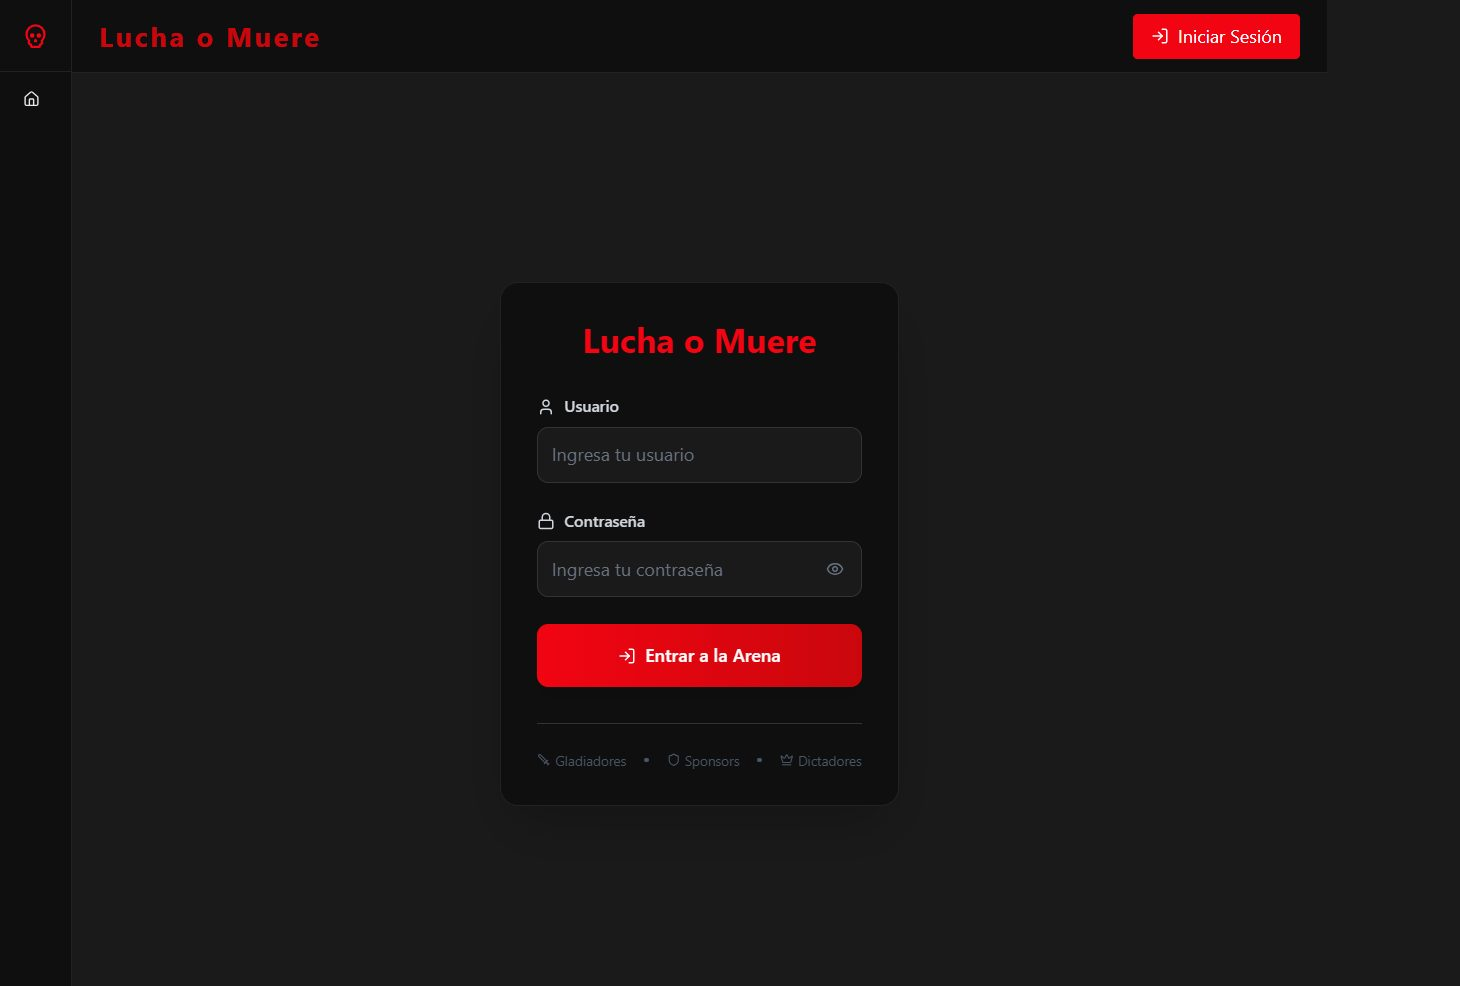
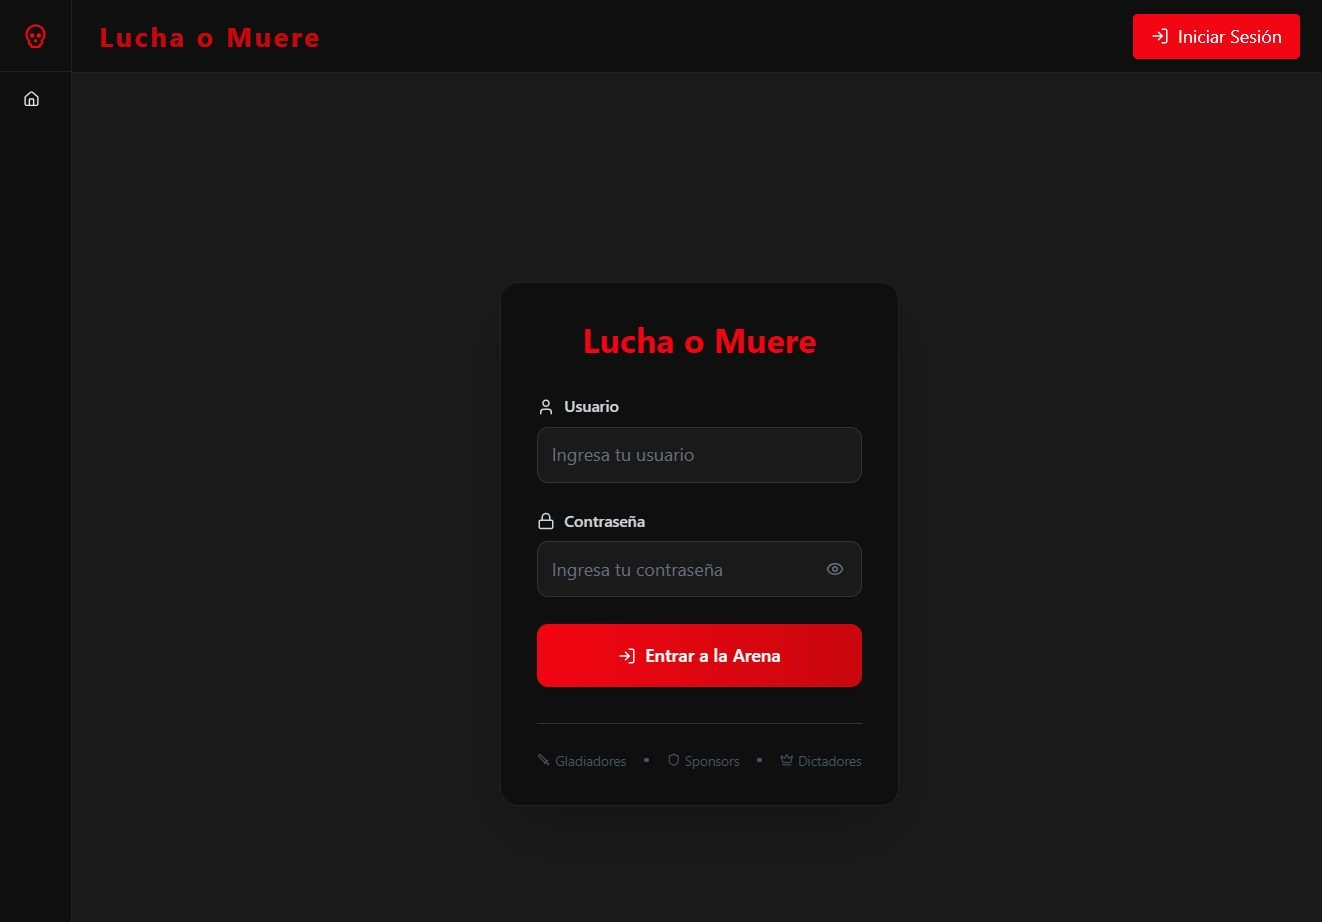
Conteo de proyectos dinamico en boot y cinta de estado (placeholder {n})

diff --git a/src/i18n/diccionario.ts b/src/i18n/diccionario.ts
@@ -14,7 +14,7 @@ export const diccionario = {
     boot1: "MARIANA ESGUERRA BIOS v1.0 — (C) 2026",
     boot2: "CPU: INGENIERIA DE SISTEMAS @ 5TO SEMESTRE ......... OK",
     boot3: "MONTANDO C:\\PORTAFOLIO ................................ OK",
-    boot4: "CARGANDO PROYECTOS [12] ............................... OK",
+    boot4: "CARGANDO PROYECTOS [{n}] ............................... OK",
     boot5: "IDIOMA: ES/EN · TEMA: DARK/LIGHT ...................... OK",
     bootMem: "MEMORIA: 640K CONVENCIONAL ......................... OK",
     bootSpotify: "CARGANDO DRIVER DE SPOTIFY .......................... OK",
@@ -38,7 +38,7 @@ export const diccionario = {
     iconAcerca: "ACERCA_DE",
     iconContacto: "CONTACTO",
     iconMusica: "MUSICA",
-    cintaTexto: "BIENVENIDA A NAVYRI.OS · PORTAFOLIO PERSONAL DE MARIANA ESGUERRA · 12 ARCHIVOS CARGADOS · MODO OSCURO ACTIVO · ",
+    cintaTexto: "BIENVENIDA A NAVYRI.OS · PORTAFOLIO PERSONAL DE MARIANA ESGUERRA · {n} ARCHIVOS CARGADOS · MODO OSCURO ACTIVO · ",
     discoTitulo: "DISCO C:",
     discoArchivos: "archivos indexados",
     verProyectos: "Ver proyectos",
@@ -118,7 +118,7 @@ export const diccionario = {
     bootMem: "MEMORY: 640K CONVENTIONAL ....................... OK",
     boot3: "MOUNTING C:\\PORTFOLIO ................................ OK",
     bootSpotify: "LOADING SPOTIFY DRIVER ........................... OK",
-    boot4: "LOADING PROJECTS [12] ............................... OK",
+    boot4: "LOADING PROJECTS [{n}] ............................... OK",
     boot5: "LANGUAGE: ES/EN · THEME: DARK/LIGHT .................. OK",
     bootStart: "STARTING NAVYRI.OS ... WELCOME.",
     bootOmitir: "PRESS ANY KEY TO SKIP",
@@ -140,7 +140,7 @@ export const diccionario = {
     iconAcerca: "ABOUT_ME",
     iconContacto: "CONTACT",
     iconMusica: "MUSIC",
-    cintaTexto: "WELCOME TO NAVYRI.OS · PERSONAL PORTFOLIO OF MARIANA ESGUERRA · 12 FILES LOADED · DARK MODE ACTIVE · ",
+    cintaTexto: "WELCOME TO NAVYRI.OS · PERSONAL PORTFOLIO OF MARIANA ESGUERRA · {n} FILES LOADED · DARK MODE ACTIVE · ",
     discoTitulo: "DRIVE C:",
     discoArchivos: "files indexed",
     verProyectos: "View projects",

diff --git a/src/components/BarraEstado.tsx b/src/components/BarraEstado.tsx
@@ -2,6 +2,7 @@
 
 import { useEffect, useState } from "react";
 import { useIdioma } from "@/i18n/I18nProvider";
+import { totalProyectos } from "@/data/proyectos";
 
 /** Barra de estado inferior, estilo Windows 95 (con cinta desplazable). */
 export default function BarraEstado() {
@@ -21,7 +22,7 @@ export default function BarraEstado() {
     return () => clearInterval(id);
   }, []);
 
-  const cinta = t("cintaTexto");
+  const cinta = t("cintaTexto").replaceAll("{n}", String(totalProyectos));
 
   return (
     <footer className="sticky bottom-0 z-40 border-t-2 border-sombra border-t-claro bg-panel">

diff --git a/src/components/BootScreen.tsx b/src/components/BootScreen.tsx
@@ -2,6 +2,7 @@
 
 import { useEffect, useState } from "react";
 import { useIdioma } from "@/i18n/I18nProvider";
+import { totalProyectos } from "@/data/proyectos";
 
 /**
  * Pantalla de arranque BIOS: se muestra una sola vez por sesión de pestaña
@@ -40,7 +41,7 @@ export default function BootScreen() {
     t("bootMem"),
     t("boot3"),
     t("bootSpotify"),
-    t("boot4"),
+    t("boot4").replaceAll("{n}", String(totalProyectos)),
     t("boot5"),
     t("bootStart"),
   ];
